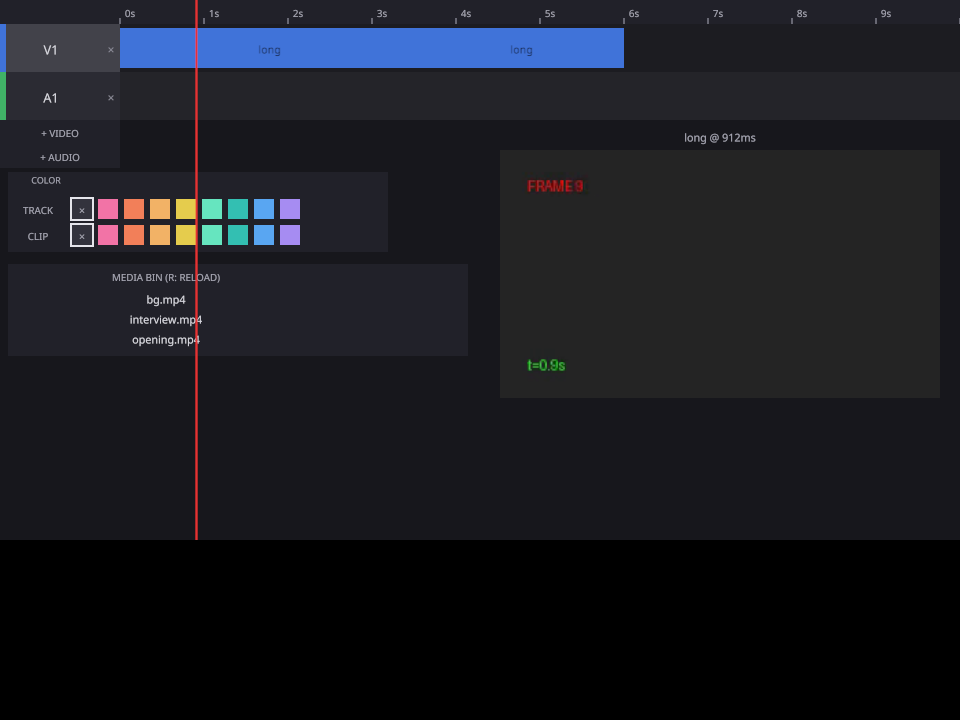
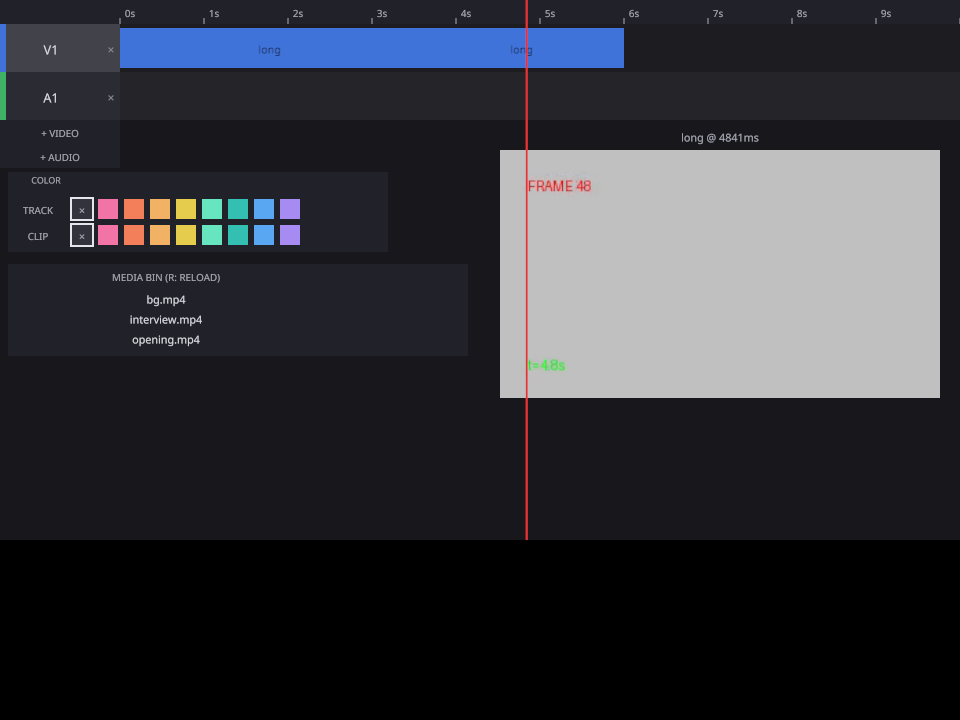
試験レポート #43: クリップ分割の結果（レビュー Low 指摘のコメント修正・証拠差し替えを含む）(Refs #43)

Changed region(s): [[0.5, 0.1833, 1.0, 0.5806]]

diff --git a/apps/video-editor/src/media.rs b/apps/video-editor/src/media.rs
@@ -128,9 +128,11 @@ pub fn active_video_clip(project: &Project, playhead_ms: i64) -> Option<&Clip> {
 }
 
 /// クリップ内でのソース時刻。範囲外なら None。
-/// 素材時刻は「offset_ms + クリップ内位置」（Issue #43）。分割や
-/// 左トリムで進んだ offset を加味しないと、右クリップが素材の頭
-/// から再生し直してしまう。
+/// 素材時刻は「offset_ms + クリップ内位置」（Issue #43）。分割で
+/// 生じた右クリップは offset が分割点まで進んでいるため、これを
+/// 加味しないと素材の頭から再生し直してしまう（なお現行コアの
+/// TrimClip は offset を進めないので、左トリムした右クリップでは
+/// トリム量ぶんずれる制限が別に残る）。
 pub fn source_time_ms(clip: &Clip, playhead_ms: i64) -> Option<i64> {
     if playhead_ms >= clip.start_ms && playhead_ms < clip.end_ms() {
         Some(clip.offset_ms + (playhead_ms - clip.start_ms))

diff --git a/docs/test-reports/issue-0043-clip-split.md b/docs/test-reports/issue-0043-clip-split.md
@@ -1,0 +1,99 @@
+# 試験レポート： Issue #43 動画編集でクリップを分割できる
+
+- 日付: 2026-11-22
+- 実行者: エージェント（デリバリーループ、並行レーンB＝動画編集 担当）
+- 対象: S キーで選択中トラックの再生ヘッド位置にあるクリップを
+  分割できる。フレーム選択が素材内オフセット（offset_ms）を
+  加味し、分割した右クリップは素材の続きを表示する。
+- 実装コミット: `d356bb8`（＋レビュー Low 指摘へのコメント修正と
+  証拠差し替えをレポートコミットに同梱）
+- CI: 緑 https://github.com/Uncheese1Unko/rust-studio/actions/runs/45011229157
+- 環境: Yoko の VM（Linux、ヘッドレス）。表示確認は Xvfb（:92）＋
+  Mesa lavapipe（ソフトウェアレンダリング）。
+  **実ディスプレイでの確認は未検証。**
+- テスト件数: ワークスペース全体 252 件 → 253 件（新規1件:
+  media の `frame_at_uses_clip_offset`）。削除・弱体化なし。
+
+## 受け入れ条件ごとの結果
+
+### AC1: GUI でクリップを選択し、再生ヘッド位置で分割するキーを押すと画面上で2つに分かれる — ✅
+
+- S キーの押下エッジで、選択中トラックで再生ヘッドが内側
+  （両端を除く）にあるクリップを `split_at_playhead` が
+  SplitClip コマンド（#32）経由で分割する。対象が無い場合は
+  ログだけの no-op。
+- 実アプリ証拠（`evidence/issue-0043/`）: 6秒クリップを S で
+  分割し、ダンプで 0..3562 / 3562..6000（右 offset_ms=3562）に
+  分かれたこと、スクリーンショットでタイムラインに2本出ること
+  を確認。対象なしケース（空プロジェクト）もログのみで状態
+  不変を確認。
+
+### AC2: 分割した右側クリップのプレビューが、分割前の続きの映像を表示する — ✅
+
+- `media::source_time_ms` を「素材時刻 = offset_ms + クリップ内
+  位置」に修正（従来は offset を落としていた）。プレビューの
+  観測ログ・描画・切り抜き合成のフレーム選択はすべてこの関数
+  経由。
+- イシュー指定テスト `frame_at_uses_clip_offset` が、実物の
+  SplitClip で作った右クリップについて素材時刻 500/1500・
+  フレーム 5/15 を固定（旧計算では 0/1000 で落ちる）。
+- 実アプリ証拠: 分割後の右クリップ区間で
+  `preview: playhead=5417 source_time=5417 frame=54`（offset が
+  効かなければ frame は 18 台）。フレーム画像の比較でも、
+  分割直後の表示フレーム（番号・明るさが時刻に比例する素材）の
+  明るさが素材の頭付近（3.3）と大きく異なり続き側（151.8）で
+  あることを確認。スクリーンショット `02-after-split.png` は
+  右クリップ区間（playhead=4642、frame=46）で撮り直した。
+
+### AC3: MCP からも分割でき、ダンプで観測できる — ✅（既存の担保）
+
+- #32 で追加済みの MCP テスト `split_clip_tool_applies_via_
+  tools_call`（crates/studio-mcp/tests/mcp_tests.rs）が
+  tools/call 経由の分割と右クリップの offset_ms を担保して
+  おり、本変更でも MCP 23 件全通過に含まれる。本件での MCP
+  側の変更はない（作業中に同名テストを重複追加しかけ、既存に
+  気づいて取り下げた）。
+
+## TDD の記録
+
+- `frame_at_uses_clip_offset` を先に書き、素材時刻が 0（期待
+  500）で落ちることを確認してから `source_time_ms` を直した。
+- GUI の S キーは既存キー操作（T/R）と同じ型の追加で、振る舞い
+  は実アプリドライブで確認した。
+
+## 作業中の出来事
+
+- ドライブ初回、S キーの短いタップがポーリング入力のフレーム間
+  に落ちて分割が発火しなかった（#47 の短クリック取りこぼしと
+  同型）。キー送信を長押し（keydown→1.2秒→keyup）に変えて
+  解消し、ドライブに残した。
+
+## コードレビュー
+
+- 独立 code-reviewer（新規サブエージェント、イシュー番号と diff
+  範囲 `be3ef53..d356bb8` のみを提示）に依頼し、**ラウンド1で
+  APPROVE**。Low 指摘3件への対応:
+  1. 切り抜き背景フレーム選択が offset 未反映（既存コード、
+     本件スコープ外）→ フォローアップ **#64** を起票し EPIC #7
+     に紐付けた。
+  2. media.rs のコメントの事実誤認（「左トリムで進んだ
+     offset」— 現行 TrimClip は offset を進めない）→ 本レポート
+     のコミットでコメントを修正し、左トリム済み右クリップの
+     ずれがコア側の既存制限であることも明記した。
+  3. 証拠スクリーンショットが左クリップ区間で撮られていた →
+     右クリップ区間（frame=46）で撮り直して差し替えた。
+
+## 完了の定義チェック
+
+- [x] 受け入れ条件を全部、書いてある確認方法で1つずつ確かめた
+- [x] TDD で実装した（red の記録は上記「TDD の記録」）
+- [x] `cargo test` が 0 で終わった（`./scripts/verify.sh` 緑、253 件）
+- [x] 画面で観測できる受け入れ条件は実アプリで確認し、証拠を残した。
+      状態ダンプでも同じ状態が観測できる
+- [x] push の前に独立した `code-reviewer` が `APPROVE` を返した
+- [x] この変更の commit で CI が緑（最後まで見た）
+- [x] 判断があれば ADR を同じ commit で足し、関係する文書とルールを
+      直した（新規の設計判断なし）
+- [x] 試験レポートと証拠を置いた（本ファイルと `evidence/issue-0043/`）
+- [x] コメントに commit・CI の URL・レポートへのリンクを書いて閉じる
+      （close コメントで実施）
